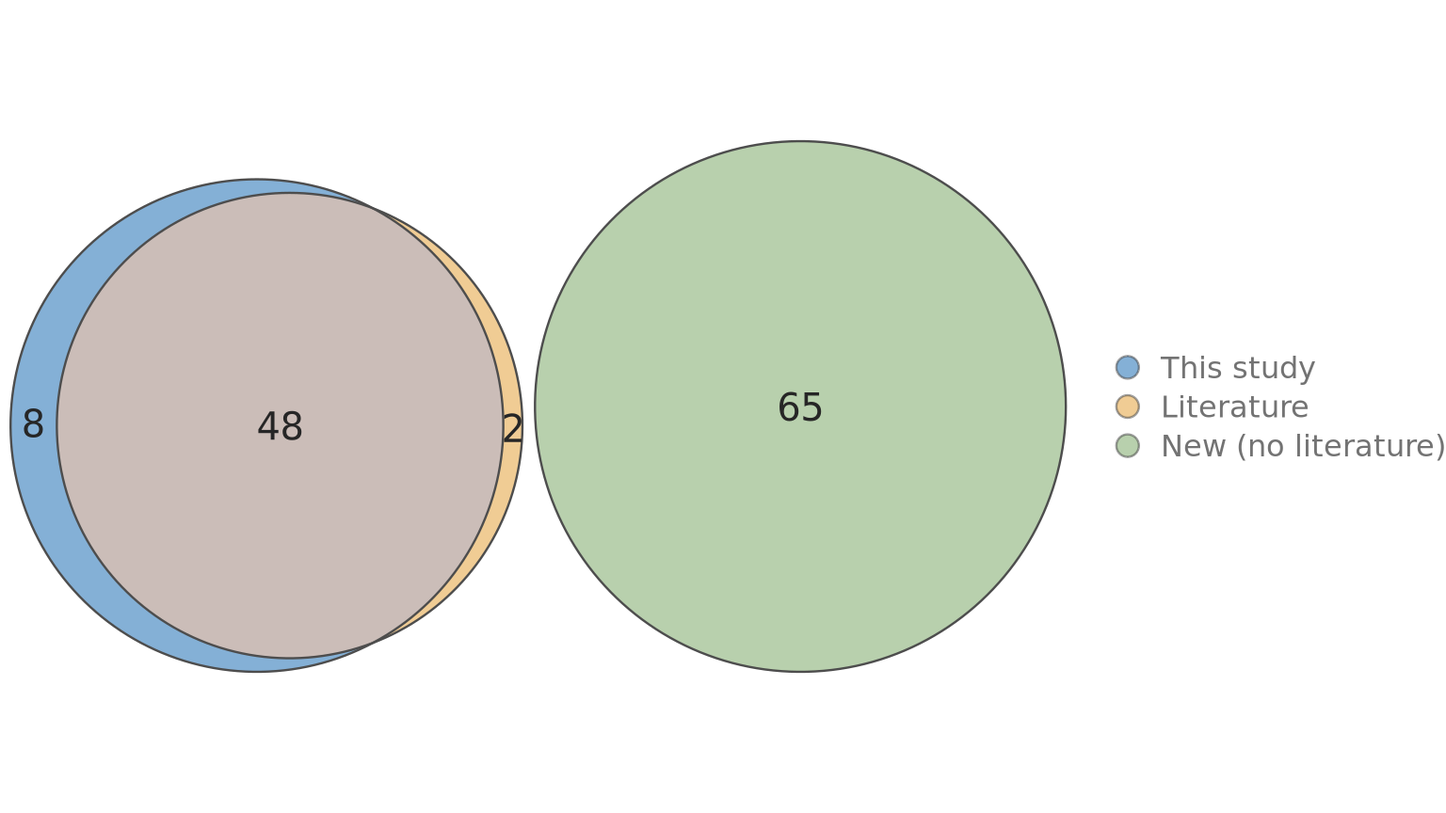
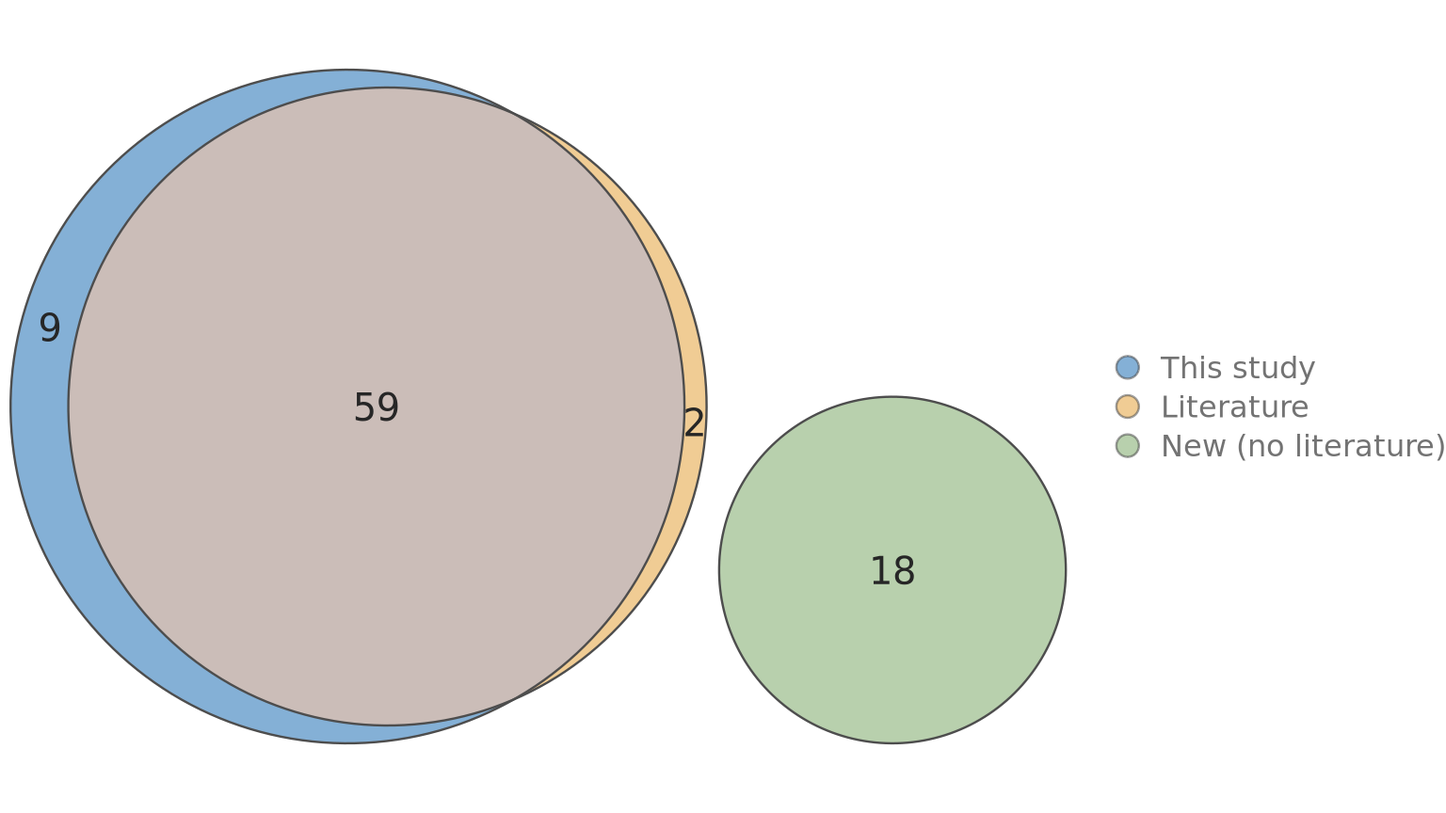
Built site for gh-pages

diff --git a/previous_findings.html b/previous_findings.html
@@ -187,20 +187,20 @@ ul.task-list li input[type="checkbox"] {
 <div class="cell-output-display">
 <div>
 <div class="kpi-box">
-<span class="num">123</span>
-<span class="lab">Loci on the table</span>
+<span class="num">97</span>
+<span class="lab">tested loci</span>
 </div>
 <div class="kpi-box">
-<span class="num">58</span>
-<span class="lab">with literature reports to compare</span>
+<span class="num">68</span>
+<span class="lab">comparable (results here and in the literature)</span>
 </div>
 <div class="kpi-box">
-<span class="num">83%</span>
+<span class="num">87%</span>
 <span class="lab">concordance</span>
 </div>
 <div class="kpi-box">
-<span class="num">65</span>
-<span class="lab">no previous register (new or non-audited loci)</span>
+<span class="num">18</span>
+<span class="lab">colocalized with no previous report</span>
 </div>
 </div>
 </div>
@@ -216,14 +216,14 @@ ul.task-list li input[type="checkbox"] {
 </div>
 </div>
 </div>
-<p><em>Overlap = loci where at least one gene nominated here was also reported in the literature (concordant). “This study” alone = loci reported in the literature, but with no gene in common (discordant). “Literature” alone = loci with a previous report that did not reach significance here. The isolated bubble holds loci with no literature counterpart at all.</em></p>
+<p><em>Overlap = loci where at least one gene nominated here was also reported before (concordant). “This study” alone = both sources report genes, but none in common (discordant). “Literature” alone = previously reported, nothing significant here. The isolated bubble holds loci colocalized here with no literature counterpart. Out of 97 tested loci, 9 colocalized nowhere and have no previous report, so they fall outside the diagram.</em></p>
 </section>
 <section id="full-table" class="level2">
 <h2 class="anchored" data-anchor-id="full-table">Full table</h2>
 <div class="cell">
 <div class="cell-output-display">
-<div class="datatables html-widget html-fill-item" id="htmlwidget-3a54d7ea7bcfebe7e839" style="width:100%;height:auto;"></div>
-<script type="application/json" data-for="htmlwidget-3a54d7ea7bcfebe7e839">{"x":{"filter":"top","vertical":false,"filterHTML":"<tr>\n  <td data-type=\"character\" style=\"vertical-align: top;\">\n    <div class=\"form-group has-feedback\" style=\"margin-bottom: auto;\">\n      <input type=\"search\" placeholder=\"All\" class=\"form-control\" style=\"width: 100%;\"/>\n      <span class=\"glyphicon glyphicon-remove-circle form-control-feedback\"><\/span>\n    <\/div>\n  <\/td>\n  <td data-type=\"character\" style=\"vertical-align: top;\">\n    <div class=\"form-group has-feedback\" style=\"margin-bottom: auto;\">\n      <input type=\"search\" placeholder=\"All\" class=\"form-control\" style=\"width: 100%;\"/>\n      <span class=\"glyphicon glyphicon-remove-circle form-control-feedback\"><\/span>\n    <\/div>\n  <\/td>\n  <td data-type=\"character\" style=\"vertical-align: top;\">\n    <div class=\"form-group has-feedback\" style=\"margin-bottom: auto;\">\n      <input type=\"search\" placeholder=\"All\" class=\"form-control\" style=\"width: 100%;\"/>\n      <span class=\"glyphicon glyphicon-remove-circle form-control-feedback\"><\/span>\n    <\/div>\n  <\/td>\n  <td data-type=\"character\" style=\"vertical-align: top;\">\n    <div class=\"form-group has-feedback\" style=\"margin-bottom: auto;\">\n      <input type=\"search\" placeholder=\"All\" class=\"form-control\" style=\"width: 100%;\"/>\n      <span class=\"glyphicon glyphicon-remove-circle form-control-feedback\"><\/span>\n    <\/div>\n  <\/td>\n  <td data-type=\"character\" style=\"vertical-align: top;\">\n    <div class=\"form-group has-feedback\" style=\"margin-bottom: auto;\">\n      <input type=\"search\" placeholder=\"All\" class=\"form-control\" style=\"width: 100%;\"/>\n      <span class=\"glyphicon glyphicon-remove-circle form-control-feedback\"><\/span>\n    <\/div>\n  <\/td>\n  <td data-type=\"character\" style=\"vertical-align: top;\">\n    <div class=\"form-group has-feedback\" style=\"margin-bottom: auto;\">\n      <input type=\"search\" placeholder=\"All\" class=\"form-control\" style=\"width: 100%;\"/>\n      <span class=\"glyphicon glyphicon-remove-circle form-control-feedback\"><\/span>\n    <\/div>\n  <\/td>\n  <td data-type=\"character\" style=\"vertical-align: top;\">\n    <div class=\"form-group has-feedback\" style=\"margin-bottom: auto;\">\n      <input type=\"search\" placeholder=\"All\" class=\"form-control\" style=\"width: 100%;\"/>\n      <span class=\"glyphicon glyphicon-remove-circle form-control-feedback\"><\/span>\n    <\/div>\n  <\/td>\n<\/tr>","extensions":["Buttons"],"data":[["ABCA1","ABCA7","ABI3","ADAM17","ADAMTS4","ANK3","ANKH/OTULIN","APH1B","APOE","APP","BIN1","BLNK","CASS4","CD2AP","COX7C","CR1","CTSB","CTSH","DOC2A","EPHA1","FERMT2","GRN","HS3ST5","IDUA/DGKQ","INPP5D","IQCK","JAZF1","KLF16/REXO1","LILRB2","MYO15A/TOM1L2","PICALM","PLEKHA1","PRDM7","PRKD3","RASGEF1C","RBCK1","RHOH","SEC61G/EGFR","SHARPIN","SIGLEC11","SNX1/CIAO2A","SORL1","TMEM106B","TNIP1","TPCN1/RITA1/IQCD","TSPAN14","WDR12/ICA1L/CYP20A1","WDR81/SERPINF2","ACE","ADAM10","CD33","IGH gene cluster-signal1","MAF","NME8","TREM2","TSPOAP1","NCK2","PLCG2","","","","","","","","","","","","","","","","","","","","","","","","","","","ADAMTS1","ADGRL3","AGRN","ATP8B4","AXIN1","CELF1/SPI1","CEP89","CLNK","CLU/PTK2B","DOCK4","ECHDC3/USP6NL","EIF4G3","FAM193B","HBEGF","HLA","ICA1/UMAD1","IGH gene cluster-signal2","IL34/MTSS2","IPMK","KAT8/BCKDK","LILRB1/LILRB4","LRRC25","MAPT","MGAT5","MME","MS4A","PPP2R3A","PTPRC","SCIMP/RABEP1","SLC24A4/RIN3","SORT1","SPPL2A/USP8/USP50","SRC","TMEM184A","TRIB1","UBFD1","VAV1","VMAC","ZCWPW1/NYAP1"],["bellenguez","lambert","jansen","bellenguez","jansen","bellenguez","bellenguez","jansen","lambert","kunkle","lambert","bellenguez","lambert","lambert","bellenguez","lambert","bellenguez","bellenguez","bellenguez","lambert","lambert","bellenguez","bellenguez","bellenguez","lambert","kunkle","bellenguez","bellenguez","wightman","bellenguez","lambert","bellenguez","bellenguez","bellenguez","bellenguez","bellenguez","bellenguez","bellenguez","bellenguez, wightman","bellenguez","bellenguez","lambert","bellenguez","bellenguez, wightman","bellenguez","bellenguez","bellenguez","bellenguez","marioni","marioni","marioni","bellenguez","kunkle","","marioni","wightman","wightman","marioni","","","","","","","","","","","","","","","","","","","","","","","","","","","","novo","wightman","","novo","lambert","novo","jansen","lambert","novo","marioni","novo","novo","","lambert","belenguez","novo","marioni","novo","marioni","novo","novo","","novo","bellenguez","lambert","novo","novo","marioni","lambert","bellenguez","marioni","novo","novo","novo","novo","novo","novo",""],["Concordant","Concordant","Concordant","Concordant","Concordant","Concordant","Concordant","Concordant","Concordant","Concordant","Concordant","Concordant","Concordant","Concordant","Concordant","Concordant","Concordant","Concordant","Concordant","Concordant","Concordant","Concordant","Concordant","Concordant","Concordant","Concordant","Concordant","Concordant","Concordant","Concordant","Concordant","Concordant","Concordant","Concordant","Concordant","Concordant","Concordant","Concordant","Concordant","Concordant","Concordant","Concordant","Concordant","Concordant","Concordant","Concordant","Concordant","Concordant","Discordant","Discordant","Discordant","Discordant","Discordant","Discordant","Discordant","Discordant","Literature only","Literature only","No comparison","No comparison","No comparison","No comparison","No comparison","No comparison","No comparison","No comparison","No comparison","No comparison","No comparison","No comparison","No comparison","No comparison","No comparison","No comparison","No comparison","No comparison","No comparison","No comparison","No comparison","No comparison","No comparison","No comparison","No comparison","No comparison","No comparison","No comparison","No comparison","No comparison","No comparison","No comparison","No comparison","No comparison","No comparison","No comparison","No comparison","No comparison","No comparison","No comparison","No comparison","No comparison","No comparison","No comparison","No comparison","No comparison","No comparison","No comparison","No comparison","No comparison","No comparison","No comparison","No comparison","No comparison","No comparison","No comparison","No comparison","No comparison","No comparison","No comparison","No comparison","No comparison","No comparison","No comparison","No comparison"],["ABCA1","ADAT3, ABCA7, REXO1, MIER2","SPOP, HOXB9, ZNF652, ZNF652-AS1","CYS1, ADAM17, HPCAL1","B4GALT3, DUSP12, ENSG00000132716, ENSG00000258465, ADAMTS4, NDUFS2, FCER1G, TOMM40L, IGSF8","CCDC6","OTULIN, OTULIN-DT","APH1B","ZNF234, ZNF285, ZNF227","APP, LINC00158","BIN1, CYP27C1","BLNK","CASS4, CSTF1","CD2AP-DT, CD2AP","RASA1","CR1, DYRK3","CTSB","CTSH","DOC2A, ENSG00000103472, ENSG00000284671, PPP4C, HIRIP3, TAOK2, ENSG00000169682, ENSG00000261067, KCTD13, NFATC2IP, SH2B1, YPEL3-DT, NFATC2IP-AS1, LOC112694756, YPEL3","CASP2, ZYX, GSTK1, EPHA1-AS1, TAS2R60","FERMT2","GRN, DHX8, UBTF, HEXIM2, ACBD4, GPATCH8, ENSG00000291175, ENSG00000214425, ITGA2B, chr17_44406051_44424348","HDAC2-AS2, MARCKS","DGKQ, FGFR3, IDUA, CPLX1, ENSG00000293360, ENSG00000182903","CHRND, NGEF","KNOP1, GPRC5B, IQCK, ACSM5, ERI2","JAZF1","ENSG00000071655, ENSG00000267059, REXO1, CBARP, REEP6, THOP1, ZNF555","19:54970660:54970717:clu_54852_NA, LILRB1, LILRB2, TTYH1, LILRA5, LAIR1","RASD1, LLGL1, MPRIP, GID4, ENSG00000170160, ENSG00000266302, SHMT1, FLII, ENSG00000179598, ENSG00000264187, ENSG00000262074, ENSG00000264940, MIEF2, PRPSAP2, TOM1L2, TOP3A","EED, PICALM","PLEKHA1, CUZD1, PSTK, chr10_122428316_122429623","DRC4, TUBB8P7","NDUFAF7, PRKD3, CEBPZOS","RASGEF1C, TBC1D9B, TRIM52-AS1","CSNK2A1, RBCK1","RFC1, RHOH","EGFR, VSTM2A, ENSG00000249773, ENSG00000178665, SLC25A5P3","SHARPIN","MED25, VRK3, SIGLEC11","CIAO2A, SNX1, SPG21, PARP16, TPM1, ENSG00000169118, ENSG00000259316","SORL1, TECTA","TMEM106B","NDST1, GLRA1, TNIP1, CSF1R","RITA1, DRC10","TSPAN14, ANXA11, DYDC2","CARF, CYP20A1, NOP58, FAM117B, WDR12, ABI2, NBEAL1, ICA1L, KIAA2012, KRT8P15","WDR81, MRM3, CCDC92B, SERPINF2","ACE, CD79B, TLK2, TANC2, ERN1, POLG2, ENSG00000266173, ENSG00000125695, PRR29","BNIP2, ENSG00000137878, ENSG00000255529, SLTM","ASPDH, SIGLEC22P","PACS2, INF2, LOC124903398, IGHG1","MAF","VPS41, EPDR1, AOAH, AOAH-IT1","MOCS1, RPL23P6","TSPOAP1, TEX14, MIR142HG, ENSG00000266086, ENSG00000136450","","","","","","","","","","","","","","","","","","","","","","","","","","","","","chr21_25982477_26000014","","INTS11, UBE2J2, ATAD3A, CCNL2, TUBB8P11, RN7SL657P, LOC101928626, HES4, SSU72","","AXIN1, MRPL28, NME4, CCDC78, RAB40C, ARHGDIG, PGAP6","MTCH2, MDK, MADD, CELF1, CREB3L1, SLC39A13, C1QTNF4, NR1H3","CEBPA-DT, CEP89, CHST8, FAAP24, RN7SKP22","","CLU, DPYSL2, PTK2B, PNOC","","USP6NL","CDC42, EIF4G3, RAP1GAP, USP48, KIF17, PLA2G5, NBPF3, UBXN10, ALPL, WNT4, OTUD3, PLA2G2A, LOC117779438, ENSG00000285959, ENSG00000218510, ENSG00000289694, ENSG00000289694, ENSG00000070831, HP1BP3","DOK3, KIAA1191, FAM193B, SIMC1, ARL10, CLTB, NSD1","HARS2, PFDN1, APBB3, TMCO6, PCDHB3, PCDHB5, CYSTM1, PCDHB12, SIL1, ANKHD1, ENSG00000131503, ENSG00000254996, UBE2D2, NRG2, MZB1, TAF7, PURA, PCDHB11, SNORA74A, PCDHA1, ENSG00000204970, ENSG00000204969, ENSG00000255408, ENSG00000204967, ENSG00000204965, ENSG00000081842, ENSG00000204963, ENSG00000204962, ENSG00000204961, ENSG00000250120, ENSG00000249158, ENSG00000251664, ENSG00000239389, ENSG00000248383, ENSG00000243232, LOC124900193, ANKHD1-DT, ENSG00000280987, ENSG00000015479, HBEGF","MICA, MICA-AS1","ICA1, GLCCI1","","NFAT5, AP1G1","CISD1, IPMK","STX1B, HSD3B7, BCL7C, CORO1A, GDPD3, STX4, BCKDK, KAT8, ITGAX, PPP4C, DOC2A, HIRIP3, TAOK2, TMEM219, PRR14, ZNF646, VKORC1, SEZ6L2, ASPHD1, PRSS36, SEPHS2, CFAP119, ENSG00000198064, ENSG00000183604, ENSG00000213599, ENSG00000261052, ZNF688, ENSG00000285043, ENSG00000149925, ENSG00000293487, ENSG00000214725, ITGAD, RNF40, SETD1A, ZNF668, chr16_30757654_30759177, chr16_31064481_31072739","BRSK1, PRKCG, COX6B2, TTYH1, FIZ1, chr19_54108395_54114441","ELL, HOMER3, ARMC6, LRRC25, NR2C2AP","DND1P1, HIGD1B, MAPK8IP1P1","","","TKFC, DDB1, FAM111A, PGA5","SLC35G2","","DHX33, RABEP1, ZZEF1, MYBBP1A, ZNF594-DT","RIN3, UNC79","","AP4E1, ATP8B4, DTWD1, DMXL2, LYSMD2, FGF7, FAM227B","DLGAP4, VSTM2L","INTS1, MAFK, PRKAR1B-AS1, MRM2, TMEM184A","LRATD2","CCNYL7, COG7, EARS2, GGA2, LOC124903667, RN7SKP23, UBFD1","","GTF2F1, KDM4B, RFX2, SAFB","AP4M1, AZGP1, STAG3, GIGYF1, TRIM4, CYP3A4, ZKSCAN5, LINC01007, LOC105375423, GNB2, LAMTOR4, SLC12A9"],["ABCA1","ARID3A, GRIN3B, DAZAP1, PTBP1, ABCA7, MBD3, CIRBP, C19orf25, R3HDM4, TMEM259, TPGS1","FLJ40194, SPOP, ATP5G1, ZNF652","EIF1P7, ITGB1BP1, CPSF3, IAH1, ADAM17, RP11-214N9.1","FCER1G, KLHDC9, PPOX, NOS1AP, USP21, DEDD, ARHGAP30, NDUFS2","CCDC6, ANK3","OTULIN","RASL12, APH1B, RAB8B, USP3, HERC1, SNX22, FAM96A","ENSG00000269124, ZNF404, ENSG00000267058, ZNF234, FBXO46, TOMM40, ZNF235, ZNF112, ZNF180, SNRPD2, VASP, TRAPPC6A","APP, AP000230.1, AP001596.6, CYYR1-AS1","BIN1, CYP27C1, SAP130","BLNK, ZDHHC16, DNTT, OPALIN","CASS4, RAE1","CD2AP-DT, CD2AP","MIR9-2HG, RASA1","MIR29B2CHG, CR1, CR1-AS1, DYRK3, CD55, RP11-343H5.4","CTSB, RP11-481A20.10","CTSH, HYKK, SH2D7","PRSS8, TLCD3B, DOC2A, TMEM219, NPIPB8, TAOK2, INO80E, ENSG00000285043, PRSS36, RP11-426C22.4, NPIPB11, SMG1P6, BOLA2, NPIPB12, SMG1P2, MAZ, SEZ6L2, ASPHD1, KCTD13, CTD-2574D22.2, HIRIP3, FAM57B, PPP4C, TBX6, YPEL3, RP11-455F5.3, GDPD3, RP11-455F5.4, RP11-455F5.6, MAPK3, SLX1A, NPIPB13, SMG1P5, MYLPF, AC002310.14, ZNF689, PRR14, SRCAP, CCDC189, ZNF629, SETD1A, HSD3B7, STX1B, RNF40, CD2BP2, MVP, CTF1, RP11-231C14.4, QPRT, CDIPT","ZYX, EPHA1-AS1, GSTK1, CASP2, EPHA1","GNPNAT1, PSMC6, FERMT2","GPATCH8, MPP3, ATXN7L3, DBF4B, ACBD4, RUNDC3A, GRN, FAM171A2, ITGA2B, GFAP, PLCD3, ASB16-AS1, HDAC5, G6PC3, FMNL1","HDAC2-AS2, HS3ST5, HDAC2","PCGF3, GAK, TMEM175, DGKQ, SLC26A1, IDUA, CRIPAK","NGEF, INPP5D","GPRC5B, IQCK, ENSG00000261312, KNOP1, ENSG00000290192, SYT17, RPS15A","JAZF1, JAZF1-AS1","TMEM259, CNN2, ABCA7, POLR2E, TCF3, ATP8B3, REXO1, KLF16, CTB-31O20.2","MYADM, SUV420H2, FIZ1, SHISA7, MBOAT7, LILRB2, TSEN34, RPS9","DRC3, MYO15A, ALKBH5, LLGL1, MIEF2, TOP3A, SHMT1, FLJ35934, USP32P2, CTD-2303H24.2, FAM106A, CCDC144B","EED, PICALM, TMEM135","PLEKHA1, HTRA1","ZNF276, CDK10, DBNDD1, TUBB8P7, FAM157C, ZNF778, GAS8","NDUFAF7, EIF2AK2, CEBPZOS, QPCT, PRKD3, RMDN2-AS1","MAPK9, TRIM7-AS2, TBC1D9B, MGAT1, GFPT2, RASGEF1C","RBCK1","RHOH, RFC1, N4BP2, RBM47","EGFR","SHARPIN, MROH1, ADCK5, ZNF707, GRINA, PARP10, DGAT1, RHPN1, ZNF517, RP11-661A12.8, LRRC24","SIGLEC11, SIGLEC16, VRK3","LACTB, RAB8B, APH1B, HERC1, FAM96A, SNX1, SNX22, CSNK1G1","SORL1","TMEM106B, THSD7A","TNIP1","DDX54, RITA1, IQCD, TPCN1, RP11-545P7.9, SLC8B1","RP11-182L21.6, ANXA11, MAT1A, DYDC2, FAM213A, TSPAN14, SFTPD, PPIF","BMPR2, FAM117B, ICA1L, KRT8P15, WDR12, CARF, NBEAL1","TLCD2, WDR81, SERPINF2","PPIAP55, ENSG00000265971","ADAM10, GCOM1, POLR2M, FAM63B","CD33, SHANK1, CLEC11A","C14orf80, IGH gene cluster","WWOX","NECAP1P1","OARD1, TREM1","SEPTIN4, TRIM37, PPM1E, MRPS23, MKS1","ENSG00000235522, NCK2","ENSG00000261218, GCSH, RP11-960L18.1","","","","","","","","","","","","","","","","","","","","","","","","","","","","","","","","","","","","","","","","","","","","","","","","","","","","","","","","","","","","","","","","",""],["ABCA1","ABCA7","SPOP, ZNF652","ADAM17","NDUFS2, FCER1G","CCDC6","OTULIN","APH1B","ZNF234","APP","BIN1, CYP27C1","BLNK","CASS4","CD2AP-DT, CD2AP","RASA1","CR1, DYRK3","CTSB","CTSH","DOC2A, PPP4C, HIRIP3, TAOK2, KCTD13, YPEL3","CASP2, ZYX, GSTK1, EPHA1-AS1","FERMT2","GRN, ACBD4, GPATCH8, ITGA2B","HDAC2-AS2","DGKQ, IDUA","NGEF","KNOP1, GPRC5B, IQCK","JAZF1","REXO1","LILRB2","LLGL1, SHMT1, MIEF2, TOP3A","EED, PICALM","PLEKHA1","TUBB8P7","NDUFAF7, PRKD3, CEBPZOS","RASGEF1C, TBC1D9B","RBCK1","RFC1, RHOH","EGFR","SHARPIN","VRK3, SIGLEC11","SNX1","SORL1","TMEM106B","TNIP1","RITA1","TSPAN14, ANXA11, DYDC2","CARF, FAM117B, WDR12, NBEAL1, ICA1L, KRT8P15","WDR81, SERPINF2","","","","","","","","","","","","","","","","","","","","","","","","","","","","","","","","","","","","","","","","","","","","","","","","","","","","","","","","","","","","","","","","","","","","","","","","","","",""],["","ADAT3, REXO1, MIER2","HOXB9, ZNF652-AS1","CYS1, HPCAL1","B4GALT3, DUSP12, ENSG00000132716, ENSG00000258465, ADAMTS4, TOMM40L, IGSF8","","OTULIN-DT","","ZNF285, ZNF227","LINC00158","","","CSTF1","","","","","","ENSG00000103472, ENSG00000284671, ENSG00000169682, ENSG00000261067, NFATC2IP, SH2B1, YPEL3-DT, NFATC2IP-AS1, LOC112694756","TAS2R60","","DHX8, UBTF, HEXIM2, ENSG00000291175, ENSG00000214425, chr17_44406051_44424348","MARCKS","FGFR3, CPLX1, ENSG00000293360, ENSG00000182903","CHRND","ACSM5, ERI2","","ENSG00000071655, ENSG00000267059, CBARP, REEP6, THOP1, ZNF555","19:54970660:54970717:clu_54852_NA, LILRB1, TTYH1, LILRA5, LAIR1","RASD1, MPRIP, GID4, ENSG00000170160, ENSG00000266302, FLII, ENSG00000179598, ENSG00000264187, ENSG00000262074, ENSG00000264940, PRPSAP2, TOM1L2","","CUZD1, PSTK, chr10_122428316_122429623","DRC4","","TRIM52-AS1","CSNK2A1","","VSTM2A, ENSG00000249773, ENSG00000178665, SLC25A5P3","","MED25","CIAO2A, SPG21, PARP16, TPM1, ENSG00000169118, ENSG00000259316","TECTA","","NDST1, GLRA1, CSF1R","DRC10","","CYP20A1, NOP58, ABI2, KIAA2012","MRM3, CCDC92B","ACE, CD79B, TLK2, TANC2, ERN1, POLG2, ENSG00000266173, ENSG00000125695, PRR29","BNIP2, ENSG00000137878, ENSG00000255529, SLTM","ASPDH, SIGLEC22P","PACS2, INF2, LOC124903398, IGHG1","MAF","VPS41, EPDR1, AOAH, AOAH-IT1","MOCS1, RPL23P6","TSPOAP1, TEX14, MIR142HG, ENSG00000266086, ENSG00000136450","","","","","","","","","","","","","","","","","","","","","","","","","","","","","chr21_25982477_26000014","","INTS11, UBE2J2, ATAD3A, CCNL2, TUBB8P11, RN7SL657P, LOC101928626, HES4, SSU72","","AXIN1, MRPL28, NME4, CCDC78, RAB40C, ARHGDIG, PGAP6","MTCH2, MDK, MADD, CELF1, CREB3L1, SLC39A13, C1QTNF4, NR1H3","CEBPA-DT, CEP89, CHST8, FAAP24, RN7SKP22","","CLU, DPYSL2, PTK2B, PNOC","","USP6NL","CDC42, EIF4G3, RAP1GAP, USP48, KIF17, PLA2G5, NBPF3, UBXN10, ALPL, WNT4, OTUD3, PLA2G2A, LOC117779438, ENSG00000285959, ENSG00000218510, ENSG00000289694, ENSG00000070831, HP1BP3","DOK3, KIAA1191, FAM193B, SIMC1, ARL10, CLTB, NSD1","HARS2, PFDN1, APBB3, TMCO6, PCDHB3, PCDHB5, CYSTM1, PCDHB12, SIL1, ANKHD1, ENSG00000131503, ENSG00000254996, UBE2D2, NRG2, MZB1, TAF7, PURA, PCDHB11, SNORA74A, PCDHA1, ENSG00000204970, ENSG00000204969, ENSG00000255408, ENSG00000204967, ENSG00000204965, ENSG00000081842, ENSG00000204963, ENSG00000204962, ENSG00000204961, ENSG00000250120, ENSG00000249158, ENSG00000251664, ENSG00000239389, ENSG00000248383, ENSG00000243232, LOC124900193, ANKHD1-DT, ENSG00000280987, ENSG00000015479, HBEGF","MICA, MICA-AS1","ICA1, GLCCI1","","NFAT5, AP1G1","CISD1, IPMK","STX1B, HSD3B7, BCL7C, CORO1A, GDPD3, STX4, BCKDK, KAT8, ITGAX, PPP4C, DOC2A, HIRIP3, TAOK2, TMEM219, PRR14, ZNF646, VKORC1, SEZ6L2, ASPHD1, PRSS36, SEPHS2, CFAP119, ENSG00000198064, ENSG00000183604, ENSG00000213599, ENSG00000261052, ZNF688, ENSG00000285043, ENSG00000149925, ENSG00000293487, ENSG00000214725, ITGAD, RNF40, SETD1A, ZNF668, chr16_30757654_30759177, chr16_31064481_31072739","BRSK1, PRKCG, COX6B2, TTYH1, FIZ1, chr19_54108395_54114441","ELL, HOMER3, ARMC6, LRRC25, NR2C2AP","DND1P1, HIGD1B, MAPK8IP1P1","","","TKFC, DDB1, FAM111A, PGA5","SLC35G2","","DHX33, RABEP1, ZZEF1, MYBBP1A, ZNF594-DT","RIN3, UNC79","","AP4E1, ATP8B4, DTWD1, DMXL2, LYSMD2, FGF7, FAM227B","DLGAP4, VSTM2L","INTS1, MAFK, PRKAR1B-AS1, MRM2, TMEM184A","LRATD2","CCNYL7, COG7, EARS2, GGA2, LOC124903667, RN7SKP23, UBFD1","","GTF2F1, KDM4B, RFX2, SAFB","AP4M1, AZGP1, STAG3, GIGYF1, TRIM4, CYP3A4, ZKSCAN5, LINC01007, LOC105375423, GNB2, LAMTOR4, SLC12A9"]],"container":"<table class=\"compact stripe\">\n  <thead>\n    <tr>\n      <th>locus<\/th>\n      <th>cohort<\/th>\n      <th>status<\/th>\n      <th>results<\/th>\n      <th>literature<\/th>\n      <th>coincide<\/th>\n      <th>additional<\/th>\n    <\/tr>\n  <\/thead>\n<\/table>","options":{"pageLength":20,"dom":"Bfrtip","buttons":["copy","csv"],"scrollX":true,"columnDefs":[{"name":"locus","targets":0},{"name":"cohort","targets":1},{"name":"status","targets":2},{"name":"results","targets":3},{"name":"literature","targets":4},{"name":"coincide","targets":5},{"name":"additional","targets":6}],"order":[],"autoWidth":false,"orderClasses":false,"orderCellsTop":true,"lengthMenu":[10,20,25,50,100]}},"evals":[],"jsHooks":[]}</script>
+<div class="datatables html-widget html-fill-item" id="htmlwidget-198e9223e9469a47db7d" style="width:100%;height:auto;"></div>
+<script type="application/json" data-for="htmlwidget-198e9223e9469a47db7d">{"x":{"filter":"top","vertical":false,"filterHTML":"<tr>\n  <td data-type=\"character\" style=\"vertical-align: top;\">\n    <div class=\"form-group has-feedback\" style=\"margin-bottom: auto;\">\n      <input type=\"search\" placeholder=\"All\" class=\"form-control\" style=\"width: 100%;\"/>\n      <span class=\"glyphicon glyphicon-remove-circle form-control-feedback\"><\/span>\n    <\/div>\n  <\/td>\n  <td data-type=\"character\" style=\"vertical-align: top;\">\n    <div class=\"form-group has-feedback\" style=\"margin-bottom: auto;\">\n      <input type=\"search\" placeholder=\"All\" class=\"form-control\" style=\"width: 100%;\"/>\n      <span class=\"glyphicon glyphicon-remove-circle form-control-feedback\"><\/span>\n    <\/div>\n  <\/td>\n  <td data-type=\"character\" style=\"vertical-align: top;\">\n    <div class=\"form-group has-feedback\" style=\"margin-bottom: auto;\">\n      <input type=\"search\" placeholder=\"All\" class=\"form-control\" style=\"width: 100%;\"/>\n      <span class=\"glyphicon glyphicon-remove-circle form-control-feedback\"><\/span>\n    <\/div>\n  <\/td>\n  <td data-type=\"character\" style=\"vertical-align: top;\">\n    <div class=\"form-group has-feedback\" style=\"margin-bottom: auto;\">\n      <input type=\"search\" placeholder=\"All\" class=\"form-control\" style=\"width: 100%;\"/>\n      <span class=\"glyphicon glyphicon-remove-circle form-control-feedback\"><\/span>\n    <\/div>\n  <\/td>\n  <td data-type=\"character\" style=\"vertical-align: top;\">\n    <div class=\"form-group has-feedback\" style=\"margin-bottom: auto;\">\n      <input type=\"search\" placeholder=\"All\" class=\"form-control\" style=\"width: 100%;\"/>\n      <span class=\"glyphicon glyphicon-remove-circle form-control-feedback\"><\/span>\n    <\/div>\n  <\/td>\n  <td data-type=\"character\" style=\"vertical-align: top;\">\n    <div class=\"form-group has-feedback\" style=\"margin-bottom: auto;\">\n      <input type=\"search\" placeholder=\"All\" class=\"form-control\" style=\"width: 100%;\"/>\n      <span class=\"glyphicon glyphicon-remove-circle form-control-feedback\"><\/span>\n    <\/div>\n  <\/td>\n  <td data-type=\"character\" style=\"vertical-align: top;\">\n    <div class=\"form-group has-feedback\" style=\"margin-bottom: auto;\">\n      <input type=\"search\" placeholder=\"All\" class=\"form-control\" style=\"width: 100%;\"/>\n      <span class=\"glyphicon glyphicon-remove-circle form-control-feedback\"><\/span>\n    <\/div>\n  <\/td>\n<\/tr>","extensions":["Buttons"],"data":[["ABCA1","ABCA7","ABI3","ADAM17","ADAMTS4","ANK3","ANKH/OTULIN","APH1B","APOE","APP","BIN1","BLNK","CASS4","CD2AP","CELF1/SPI1","CLU/PTK2B","COX7C","CR1","CTSB","CTSH","DOC2A","ECHDC3/USP6NL","EPHA1","FERMT2","GRN","HS3ST5","ICA1/UMAD1","IDUA/DGKQ","INPP5D","IQCK","JAZF1","KAT8/BCKDK","KLF16/REXO1","LILRB2","MYO15A/TOM1L2","NME8","PICALM","PLCG2","PLEKHA1","PRDM7","PRKD3","RASGEF1C","RBCK1","RHOH","SCIMP/RABEP1","SEC61G/EGFR","SHARPIN","SIGLEC11","SLC24A4/RIN3","SNX1/CIAO2A","SORL1","SPPL2A/USP8/USP50","TMEM106B","TNIP1","TPCN1/RITA1/IQCD","TSPAN14","WDR12/ICA1L/CYP20A1","WDR81/SERPINF2","ZCWPW1/NYAP1","ACE","ADAM10","CD33","IGH gene cluster-signal1","IL34/MTSS2","MAF","MS4A","TREM2","TSPOAP1","IGH gene cluster-signal2","NCK2","ADAMTS1","AGRN","AXIN1","CEP89","EIF4G3","FAM193B","HBEGF","HLA","IPMK","LILRB1/LILRB4","LRRC25","MAPT","PPP2R3A","SRC","TMEM184A","TRIB1","UBFD1","VMAC","ADGRL3","ATP8B4","CLNK","DOCK4","MGAT5","MME","PTPRC","SORT1","VAV1"],["bellenguez","lambert","jansen","bellenguez","jansen","bellenguez","bellenguez","jansen","lambert","kunkle","lambert","bellenguez","lambert","lambert","lambert","lambert","bellenguez","lambert","bellenguez","bellenguez","bellenguez","marioni","lambert","lambert","bellenguez","bellenguez","belenguez","bellenguez","lambert","kunkle","bellenguez","marioni","bellenguez","wightman","bellenguez",null,"lambert","marioni","bellenguez","bellenguez","bellenguez","bellenguez","bellenguez","bellenguez","marioni","bellenguez","bellenguez, wightman","bellenguez","lambert","bellenguez","lambert","marioni","bellenguez","bellenguez, wightman","bellenguez","bellenguez","bellenguez","bellenguez",null,"marioni","marioni","marioni","bellenguez","marioni","kunkle","lambert","marioni","wightman","novo","wightman",null,"wightman","novo","novo","novo","novo",null,"lambert","novo","novo","novo",null,"novo","novo","novo","novo","novo","novo","novo",null,"jansen","novo","novo","bellenguez","novo","bellenguez","novo"],["Concordant","Concordant","Concordant","Concordant","Concordant","Concordant","Concordant","Concordant","Concordant","Concordant","Concordant","Concordant","Concordant","Concordant","Concordant","Concordant","Concordant","Concordant","Concordant","Concordant","Concordant","Concordant","Concordant","Concordant","Concordant","Concordant","Concordant","Concordant","Concordant","Concordant","Concordant","Concordant","Concordant","Concordant","Concordant","Concordant","Concordant","Concordant","Concordant","Concordant","Concordant","Concordant","Concordant","Concordant","Concordant","Concordant","Concordant","Concordant","Concordant","Concordant","Concordant","Concordant","Concordant","Concordant","Concordant","Concordant","Concordant","Concordant","Concordant","Discordant","Discordant","Discordant","Discordant","Discordant","Discordant","Discordant","Discordant","Discordant","Literature only","Literature only","New (no literature)","New (no literature)","New (no literature)","New (no literature)","New (no literature)","New (no literature)","New (no literature)","New (no literature)","New (no literature)","New (no literature)","New (no literature)","New (no literature)","New (no literature)","New (no literature)","New (no literature)","New (no literature)","New (no literature)","New (no literature)","Not colocalized · no literature","Not colocalized · no literature","Not colocalized · no literature","Not colocalized · no literature","Not colocalized · no literature","Not colocalized · no literature","Not colocalized · no literature","Not colocalized · no literature","Not colocalized · no literature"],["ABCA1","ABCA7, ADAT3, MIER2, REXO1","HOXB9, SPOP, ZNF652, ZNF652-AS1","ADAM17, CYS1, HPCAL1","ADAMTS4, B4GALT3, DUSP12, ENSG00000132716, FCER1G, IGSF8, NDUFS2, TOMM40L","CCDC6","OTULIN, OTULIN-DT","APH1B","ZNF227, ZNF234, ZNF285","APP, ENSG00000287109, LINC00158","BIN1, CYP27C1","BLNK","CASS4, CSTF1","CD2AP, CD2AP-DT, ENSG00000270761","C1QTNF4, CELF1, CREB3L1, MADD, MDK, MTCH2, NR1H3, SLC39A13","CLU, DPYSL2, ENSG00000253813, PNOC, PTK2B","RASA1","CR1, DYRK3, ENSG00000236911","CTSB","CTSH","DOC2A, ENSG00000103472, ENSG00000169682, HIRIP3, KCTD13, LOC112694756, NFATC2IP, NFATC2IP-AS1, PPP4C, SH2B1, TAOK2, YPEL3, YPEL3-DT","USP6NL","CASP2, EPHA1-AS1, GSTK1, TAS2R60, ZYX","FERMT2","ACBD4, chr17_44406051_44424348, DHX8, ENSG00000291175, GPATCH8, GRN, HEXIM2, ITGA2B, UBTF","HDAC2-AS2, MARCKS","GLCCI1, ICA1","CPLX1, DGKQ, ENSG00000293360, FGFR3, IDUA","CHRND, NGEF","ACSM5, ENSG00000261312, ERI2, GPRC5B, IQCK, KNOP1","JAZF1","ASPHD1, BCKDK, BCL7C, CFAP119, chr16_30757654_30759177, chr16_31064481_31072739, CORO1A, DOC2A, ENSG00000198064, ENSG00000213599, ENSG00000261474, ENSG00000262721, ENSG00000275371, ENSG00000277543, ENSG00000282034, ENSG00000285043, ENSG00000293487, GDPD3, HIRIP3, HSD3B7, ITGAD, ITGAX, KAT8, PPP4C, PRR14, PRSS36, RNF40, SEPHS2, SETD1A, SEZ6L2, STX1B, STX4, TAOK2, TMEM219, VKORC1, ZNF646, ZNF668, ZNF688","CBARP, ENSG00000071655, REEP6, REXO1, THOP1, ZNF555","19:54970660:54970717:clu_54852_NA, LAIR1, LILRA5, LILRB1, LILRB2, TTYH1","ENSG00000170160, ENSG00000179598, ENSG00000262074, ENSG00000262319, FLII, GID4, LLGL1, MIEF2, MPRIP, PRPSAP2, RASD1, SHMT1, TOM1L2, TOP3A","AOAH, AOAH-IT1, ENSG00000178503, EPDR1, VPS41","EED, PICALM","ENSG00000261218","chr10_122428316_122429623, CUZD1, PLEKHA1, PSTK","DRC4, ENSG00000261226, TUBB8P7","CEBPZOS, NDUFAF7, PRKD3","RASGEF1C, TBC1D9B, TRIM52-AS1","CSNK2A1, RBCK1","RFC1, RHOH","DHX33, MYBBP1A, RABEP1, ZNF594-DT, ZZEF1","EGFR, ENSG00000249773, SLC25A5P3, VSTM2A","SHARPIN","MED25, SIGLEC11, VRK3","RIN3, UNC79","CIAO2A, ENSG00000169118, ENSG00000259258, ENSG00000275332, PARP16, SNX1, SPG21, TPM1","SORL1, TECTA","AP4E1, ATP8B4, DMXL2, DTWD1, ENSG00000259618, FAM227B, FGF7, LYSMD2","TMEM106B","CSF1R, GLRA1, NDST1, TNIP1","DRC10, RITA1","ANXA11, DYDC2, TSPAN14","ABI2, CARF, CYP20A1, ENSG00000224463, FAM117B, ICA1L, KIAA2012, KRT8P15, NBEAL1, NOP58, WDR12","CCDC92B, MRM3, SERPINF2, WDR81","AP4M1, AZGP1, CYP3A4, GIGYF1, GNB2, LAMTOR4, LINC01007, LOC105375423, SLC12A9, STAG3, TRIM4, ZKSCAN5","ACE, CD79B, ENSG00000228979, ENSG00000266173, ERN1, POLG2, PRR29, TANC2, TLK2","BNIP2, ENSG00000137878, SLTM","ASPDH, SIGLEC22P","ENSG00000258430, IGHG1, INF2, LOC124903398, PACS2","AP1G1, ENSG00000262140, NFAT5","MAF","DDB1, FAM111A, PGA5, TKFC","MOCS1, RPL23P6","ENSG00000266086, ENSG00000266648, ENSG00000274198, ENSG00000276601, ENSG00000278863, MIR142HG, TEX14, TSPOAP1","","","chr21_25982477_26000014","ATAD3A, CCNL2, ENSG00000269737, HES4, INTS11, LOC101928626, RN7SL657P, SSU72, TUBB8P11, UBE2J2","ARHGDIG, AXIN1, CCDC78, ENSG00000276931, ENSG00000279930, MRPL28, NME4, PGAP6, RAB40C","CEBPA-DT, CEP89, CHST8, FAAP24, RN7SKP22","ALPL, CDC42, EIF4G3, ENSG00000285794, ENSG00000285873, ENSG00000285959, ENSG00000289694, HP1BP3, KIF17, LOC117779438, NBPF3, OTUD3, PLA2G2A, PLA2G5, RAP1GAP, UBXN10, USP48, WNT4","ARL10, CLTB, DOK3, ENSG00000250909, FAM193B, KIAA1191, NSD1, SIMC1","ANKHD1, ANKHD1-DT, APBB3, CYSTM1, ENSG00000131503, ENSG00000204970, ENSG00000254363, ENSG00000272070, ENSG00000272742, ENSG00000278907, ENSG00000280987, HARS2, HBEGF, LOC124900193, MZB1, NRG2, PCDHA1, PCDHB11, PCDHB12, PCDHB3, PCDHB5, PFDN1, PURA, SIL1, SNORA74A, TAF7, TMCO6, UBE2D2","ENSG00000204338, MICA, MICA-AS1","CISD1, ENSG00000228527, IPMK","BRSK1, chr19_54108395_54114441, COX6B2, FIZ1, PRKCG, TTYH1","ARMC6, ELL, HOMER3, LRRC25, NR2C2AP","DND1P1, ENSG00000262265, HIGD1B, MAPK8IP1P1","SLC35G2","DLGAP4, VSTM2L","INTS1, MAFK, MRM2, PRKAR1B-AS1, TMEM184A","LRATD2","CCNYL7, COG7, EARS2, ENSG00000257122, ENSG00000259782, GGA2, LOC124903667, RN7SKP23, UBFD1","ENSG00000267314, GTF2F1, KDM4B, RFX2, SAFB","","","","","","","","",""],["ABCA1","ABCA7, ARID3A, C19orf25, CIRBP, DAZAP1, GRIN3B, MBD3, PTBP1, R3HDM4, TMEM259, TPGS1","ATP5G1, FLJ40194, SPOP, ZNF652","ADAM17, CPSF3, EIF1P7, IAH1, ITGB1BP1, RP11-214N9.1","ARHGAP30, DEDD, FCER1G, KLHDC9, NDUFS2, NOS1AP, PPOX, USP21","ANK3, CCDC6","OTULIN","APH1B, FAM96A, HERC1, RAB8B, RASL12, SNX22, USP3","ENSG00000267058, ENSG00000269124, FBXO46, SNRPD2, TOMM40, TRAPPC6A, VASP, ZNF112, ZNF180, ZNF234, ZNF235, ZNF404","AP000230.1, AP001596.6, APP, CYYR1-AS1","BIN1, CYP27C1, SAP130","BLNK, DNTT, OPALIN, ZDHHC16","CASS4, RAE1","CD2AP, CD2AP-DT","C1QTNF4, CELF1, DGKZ, MTCH2, MYBPC3, NDUFS3, NR1H3, NUP160, PHF21A, PSMC3, SLC39A13, SLC39A13-AS1","CLU, ELP3, PTK2B","MIR9-2HG, RASA1","CD55, CR1, CR1-AS1, DYRK3, MIR29B2CHG, RP11-343H5.4","CTSB, RP11-481A20.10","CTSH, HYKK, SH2D7","AC002310.14, ASPHD1, BOLA2, CCDC189, CD2BP2, CDIPT, CTD-2574D22.2, CTF1, DOC2A, ENSG00000285043, FAM57B, GDPD3, HIRIP3, HSD3B7, INO80E, KCTD13, MAPK3, MAZ, MVP, MYLPF, NPIPB11, NPIPB12, NPIPB13, NPIPB8, PPP4C, PRR14, PRSS36, PRSS8, QPRT, RNF40, RP11-231C14.4, RP11-426C22.4, RP11-455F5.3, RP11-455F5.4, RP11-455F5.6, SETD1A, SEZ6L2, SLX1A, SMG1P2, SMG1P5, SMG1P6, SRCAP, STX1B, TAOK2, TBX6, TLCD3B, TMEM219, YPEL3, ZNF629, ZNF689","USP6NL","CASP2, EPHA1, EPHA1-AS1, GSTK1, ZYX","FERMT2, GNPNAT1, PSMC6","ACBD4, ASB16-AS1, ATXN7L3, DBF4B, FAM171A2, FMNL1, G6PC3, GFAP, GPATCH8, GRN, HDAC5, ITGA2B, MPP3, PLCD3, RUNDC3A","HDAC2, HDAC2-AS2, HS3ST5","AC009473.1, GLCCI1","CRIPAK, DGKQ, GAK, IDUA, PCGF3, SLC26A1, TMEM175","INPP5D, NGEF","ENSG00000261312, ENSG00000290192, GPRC5B, IQCK, KNOP1, RPS15A, SYT17","JAZF1, JAZF1-AS1","CFAP119, HSD3B7, KAT8, MIR762HG, RNF40, STX1B, STX4, TBC1D10B, ZNF668, ZNF720","ABCA7, ATP8B3, CNN2, CTB-31O20.2, KLF16, POLR2E, REXO1, TCF3, TMEM259","FIZ1, LILRB2, MBOAT7, MYADM, RPS9, SHISA7, SUV420H2, TSEN34","ALKBH5, CCDC144B, CTD-2303H24.2, DRC3, FAM106A, FLJ35934, LLGL1, MIEF2, MYO15A, SHMT1, TOP3A, USP32P2","EPDR1, GPR141, NECAP1P1, NME8","EED, PICALM, TMEM135","ENSG00000261218, GCSH, RP11-960L18.1","HTRA1, PLEKHA1","CDK10, DBNDD1, FAM157C, GAS8, TUBB8P7, ZNF276, ZNF778","CEBPZOS, EIF2AK2, NDUFAF7, PRKD3, QPCT, RMDN2-AS1","GFPT2, MAPK9, MGAT1, RASGEF1C, TBC1D9B, TRIM7-AS2","RBCK1","N4BP2, RBM47, RFC1, RHOH","CHRNE, MYBBP1A, RABEP1, SCIMP, ZNF232","EGFR","ADCK5, DGAT1, GRINA, LRRC24, MROH1, PARP10, RHPN1, RP11-661A12.8, SHARPIN, ZNF517, ZNF707","SIGLEC11, SIGLEC16, VRK3","ITPK1, RIN3, SLC24A4, TMEM251","APH1B, CSNK1G1, FAM96A, HERC1, LACTB, RAB8B, SNX1, SNX22","SORL1","ATP8B4, SPPL2A","THSD7A, TMEM106B","TNIP1","DDX54, IQCD, RITA1, RP11-545P7.9, SLC8B1, TPCN1","ANXA11, DYDC2, FAM213A, MAT1A, PPIF, RP11-182L21.6, SFTPD, TSPAN14","BMPR2, CARF, FAM117B, ICA1L, KRT8P15, NBEAL1, WDR12","SERPINF2, TLCD2, WDR81","C7orf43, GATS, IFT22, PILRA, SMURF1, STAG3, STAG3L5P-PVRIG2P-PILRB, ZKSCAN1","ENSG00000265971, PPIAP55","ADAM10, FAM63B, GCOM1, POLR2M","CD33, CLEC11A, SHANK1","C14orf80, IGH gene cluster","ST3GAL2","WWOX","MS4A4E","OARD1, TREM1","MKS1, MRPS23, PPM1E, SEPTIN4, TRIM37","CEP170B","ENSG00000235522, NCK2","","","","","","","","","","","","","","","","","","","","","","","","","","",""],["ABCA1","ABCA7","SPOP, ZNF652","ADAM17","FCER1G, NDUFS2","CCDC6","OTULIN","APH1B","ZNF234","APP","BIN1, CYP27C1","BLNK","CASS4","CD2AP, CD2AP-DT","C1QTNF4, CELF1, MTCH2, NR1H3, SLC39A13","CLU, PTK2B","RASA1","CR1, DYRK3","CTSB","CTSH","DOC2A, HIRIP3, KCTD13, PPP4C, TAOK2, YPEL3","USP6NL","CASP2, EPHA1-AS1, GSTK1, ZYX","FERMT2","ACBD4, GPATCH8, GRN, ITGA2B","HDAC2-AS2","GLCCI1","DGKQ, IDUA","NGEF","ENSG00000261312, GPRC5B, IQCK, KNOP1","JAZF1","CFAP119, HSD3B7, KAT8, RNF40, STX1B, STX4, ZNF668","REXO1","LILRB2","LLGL1, MIEF2, SHMT1, TOP3A","EPDR1","EED, PICALM","ENSG00000261218","PLEKHA1","TUBB8P7","CEBPZOS, NDUFAF7, PRKD3","RASGEF1C, TBC1D9B","RBCK1","RFC1, RHOH","MYBBP1A, RABEP1","EGFR","SHARPIN","SIGLEC11, VRK3","RIN3","SNX1","SORL1","ATP8B4","TMEM106B","TNIP1","RITA1","ANXA11, DYDC2, TSPAN14","CARF, FAM117B, ICA1L, KRT8P15, NBEAL1, WDR12","SERPINF2, WDR81","STAG3","","","","","","","","","","","","","","","","","","","","","","","","","","","","","","","","","","","","","",""],["","ADAT3, MIER2, REXO1","HOXB9, ZNF652-AS1","CYS1, HPCAL1","ADAMTS4, B4GALT3, DUSP12, ENSG00000132716, IGSF8, TOMM40L","","OTULIN-DT","","ZNF227, ZNF285","ENSG00000287109, LINC00158","","","CSTF1","ENSG00000270761","CREB3L1, MADD, MDK","DPYSL2, ENSG00000253813, PNOC","","ENSG00000236911","","","ENSG00000103472, ENSG00000169682, LOC112694756, NFATC2IP, NFATC2IP-AS1, SH2B1, YPEL3-DT","","TAS2R60","","chr17_44406051_44424348, DHX8, ENSG00000291175, HEXIM2, UBTF","MARCKS","ICA1","CPLX1, ENSG00000293360, FGFR3","CHRND","ACSM5, ERI2","","ASPHD1, BCKDK, BCL7C, chr16_30757654_30759177, chr16_31064481_31072739, CORO1A, DOC2A, ENSG00000198064, ENSG00000213599, ENSG00000261474, ENSG00000262721, ENSG00000275371, ENSG00000277543, ENSG00000282034, ENSG00000285043, ENSG00000293487, GDPD3, HIRIP3, ITGAD, ITGAX, PPP4C, PRR14, PRSS36, SEPHS2, SETD1A, SEZ6L2, TAOK2, TMEM219, VKORC1, ZNF646, ZNF688","CBARP, ENSG00000071655, REEP6, THOP1, ZNF555","19:54970660:54970717:clu_54852_NA, LAIR1, LILRA5, LILRB1, TTYH1","ENSG00000170160, ENSG00000179598, ENSG00000262074, ENSG00000262319, FLII, GID4, MPRIP, PRPSAP2, RASD1, TOM1L2","AOAH, AOAH-IT1, ENSG00000178503, VPS41","","","chr10_122428316_122429623, CUZD1, PSTK","DRC4, ENSG00000261226","","TRIM52-AS1","CSNK2A1","","DHX33, ZNF594-DT, ZZEF1","ENSG00000249773, SLC25A5P3, VSTM2A","","MED25","UNC79","CIAO2A, ENSG00000169118, ENSG00000259258, ENSG00000275332, PARP16, SPG21, TPM1","TECTA","AP4E1, DMXL2, DTWD1, ENSG00000259618, FAM227B, FGF7, LYSMD2","","CSF1R, GLRA1, NDST1","DRC10","","ABI2, CYP20A1, ENSG00000224463, KIAA2012, NOP58","CCDC92B, MRM3","AP4M1, AZGP1, CYP3A4, GIGYF1, GNB2, LAMTOR4, LINC01007, LOC105375423, SLC12A9, TRIM4, ZKSCAN5","ACE, CD79B, ENSG00000228979, ENSG00000266173, ERN1, POLG2, PRR29, TANC2, TLK2","BNIP2, ENSG00000137878, SLTM","ASPDH, SIGLEC22P","ENSG00000258430, IGHG1, INF2, LOC124903398, PACS2","AP1G1, ENSG00000262140, NFAT5","MAF","DDB1, FAM111A, PGA5, TKFC","MOCS1, RPL23P6","ENSG00000266086, ENSG00000266648, ENSG00000274198, ENSG00000276601, ENSG00000278863, MIR142HG, TEX14, TSPOAP1","","","chr21_25982477_26000014","ATAD3A, CCNL2, ENSG00000269737, HES4, INTS11, LOC101928626, RN7SL657P, SSU72, TUBB8P11, UBE2J2","ARHGDIG, AXIN1, CCDC78, ENSG00000276931, ENSG00000279930, MRPL28, NME4, PGAP6, RAB40C","CEBPA-DT, CEP89, CHST8, FAAP24, RN7SKP22","ALPL, CDC42, EIF4G3, ENSG00000285794, ENSG00000285873, ENSG00000285959, ENSG00000289694, HP1BP3, KIF17, LOC117779438, NBPF3, OTUD3, PLA2G2A, PLA2G5, RAP1GAP, UBXN10, USP48, WNT4","ARL10, CLTB, DOK3, ENSG00000250909, FAM193B, KIAA1191, NSD1, SIMC1","ANKHD1, ANKHD1-DT, APBB3, CYSTM1, ENSG00000131503, ENSG00000204970, ENSG00000254363, ENSG00000272070, ENSG00000272742, ENSG00000278907, ENSG00000280987, HARS2, HBEGF, LOC124900193, MZB1, NRG2, PCDHA1, PCDHB11, PCDHB12, PCDHB3, PCDHB5, PFDN1, PURA, SIL1, SNORA74A, TAF7, TMCO6, UBE2D2","ENSG00000204338, MICA, MICA-AS1","CISD1, ENSG00000228527, IPMK","BRSK1, chr19_54108395_54114441, COX6B2, FIZ1, PRKCG, TTYH1","ARMC6, ELL, HOMER3, LRRC25, NR2C2AP","DND1P1, ENSG00000262265, HIGD1B, MAPK8IP1P1","SLC35G2","DLGAP4, VSTM2L","INTS1, MAFK, MRM2, PRKAR1B-AS1, TMEM184A","LRATD2","CCNYL7, COG7, EARS2, ENSG00000257122, ENSG00000259782, GGA2, LOC124903667, RN7SKP23, UBFD1","ENSG00000267314, GTF2F1, KDM4B, RFX2, SAFB","","","","","","","","",""]],"container":"<table class=\"compact stripe\">\n  <thead>\n    <tr>\n      <th>locus<\/th>\n      <th>cohort<\/th>\n      <th>status<\/th>\n      <th>results<\/th>\n      <th>literature<\/th>\n      <th>coincide<\/th>\n      <th>additional<\/th>\n    <\/tr>\n  <\/thead>\n<\/table>","options":{"pageLength":20,"dom":"Bfrtip","buttons":["copy","csv"],"scrollX":true,"columnDefs":[{"name":"locus","targets":0},{"name":"cohort","targets":1},{"name":"status","targets":2},{"name":"results","targets":3},{"name":"literature","targets":4},{"name":"coincide","targets":5},{"name":"additional","targets":6}],"order":[],"autoWidth":false,"orderClasses":false,"orderCellsTop":true,"lengthMenu":[10,20,25,50,100]}},"evals":[],"jsHooks":[]}</script>
 </div>
 </div>
 <div class="callout callout-style-default callout-note callout-titled">
@@ -238,7 +238,7 @@ ul.task-list li input[type="checkbox"] {
 </div>
 <div id="callout-1" class="callout-1-contents callout-collapse collapse">
 <div class="callout-body-container callout-body">
-<p><code>Concordant</code> = at least one gene in common between the genes that colocalized on this analysis (<code>genes_significant</code>) and the union of literature sources (BigBrain eQTL/sQTL, Bellenguez, SingleBrain). <code>Discordant</code> = there’s literature for the locus, but none of the genes coincides. <code>Literature only</code> = the locus was reported before, but nothing reached significance here. <code>No comparison</code> = none of the sources covers this locus (includes all 19 new loci from consensus meta-analysis).</p>
+<p>The denominator is the set of loci tested in this analysis, taken from <code>coloc_all_annotated.csv</code>. Genes nominated here are those with PP.H4 ≥ 0.8; literature genes are the union of the available sources (BigBrain eQTL/sQTL, Bellenguez, SingleBrain), matched to each locus both by name and by distance between GWAS lead variants. <code>Concordant</code> = at least one gene in common. <code>Discordant</code> = both sources report genes for the locus, none in common. <code>Literature only</code> = previously reported, nothing reached significance here. <code>New (no literature)</code> = colocalized here, no previous report. Loci that colocalized nowhere and have no previous report are counted in the total but fall outside the diagram.</p>
 </div>
 </div>
 </div>
